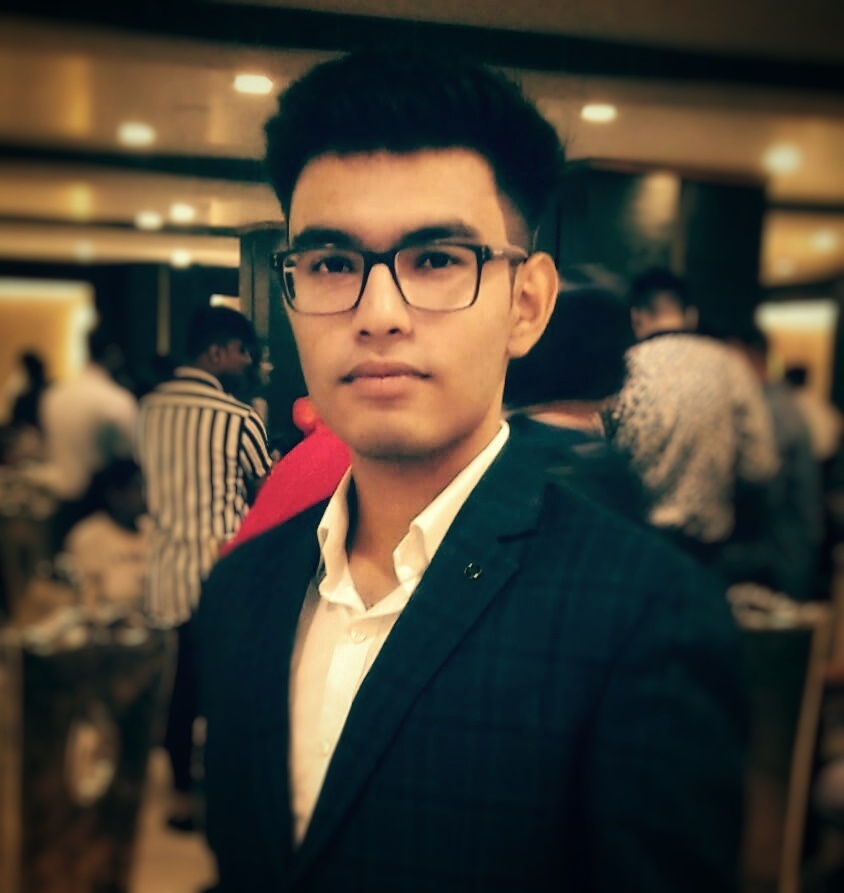
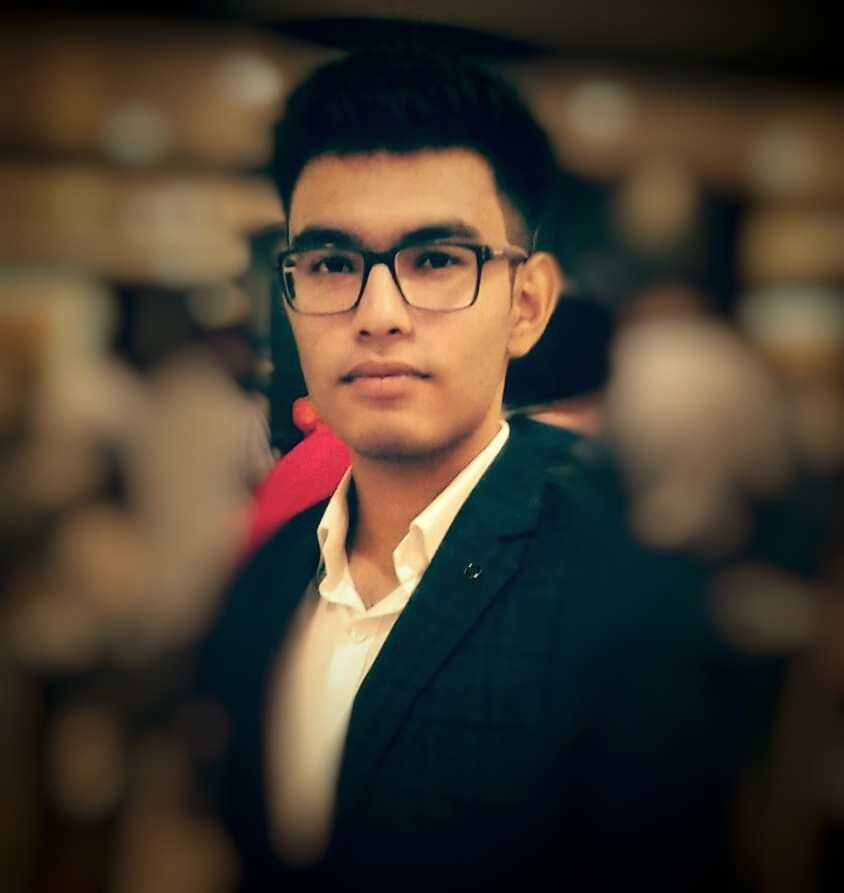
Added Name Text

diff --git a/lib/Utils/profile.dart b/lib/Utils/profile.dart
@@ -1,6 +1,6 @@
 import 'dart:ui';
-
 import 'package:flutter/material.dart';
+import 'package:google_fonts/google_fonts.dart';
 import 'package:newportfolio/Utils/profile_photo.dart';
 import 'package:newportfolio/Utils/social_handle_widgets.dart';
 
@@ -14,7 +14,7 @@ class Profile extends StatelessWidget {
     return ClipRRect(
       borderRadius: BorderRadius.circular(25),
       child: BackdropFilter(
-        filter: ImageFilter.blur(sigmaX: 1, sigmaY: 1),
+        filter: ImageFilter.blur(sigmaX: 1.5, sigmaY: 1.5),
         child: Container(
           height: height * 0.75,
           width: width * 0.6,
@@ -24,9 +24,27 @@ class Profile extends StatelessWidget {
             border: Border.all(width: 2, color: Colors.white30),
           ),
           child: Column(
-            children: const [
-              ProfilePhoto(),
-              SocialHandleWidgets(),
+            children: [
+              const ProfilePhoto(),
+              Text(
+                "Siddharth",
+                style: GoogleFonts.squarePeg(
+                  textStyle: const TextStyle(
+                      color: Colors.white,
+                      fontSize: 70,
+                      fontWeight: FontWeight.w600),
+                ),
+              ),
+              Text(
+                "Full Stack Developer",
+                style: GoogleFonts.dosis(
+                  textStyle: const TextStyle(
+                      color: Colors.white,
+                      fontSize: 25,
+                      fontWeight: FontWeight.w600),
+                ),
+              ),
+              const SocialHandleWidgets(),
             ],
           ),
         ),

diff --git a/lib/Utils/profile_photo.dart b/lib/Utils/profile_photo.dart
@@ -13,7 +13,7 @@ class _ProfilePhotoState extends State<ProfilePhoto> {
     double height = MediaQuery.of(context).size.height;
     //  double width = MediaQuery.of(context).size.width;
     return Container(
-      padding: const EdgeInsets.all(1), // Border width
+      padding: const EdgeInsets.all(3 / 2), // Border width
       decoration:
           const BoxDecoration(color: Colors.white, shape: BoxShape.circle),
       child: ClipOval(

diff --git a/macos/Flutter/GeneratedPluginRegistrant.swift b/macos/Flutter/GeneratedPluginRegistrant.swift
@@ -5,6 +5,8 @@
 import FlutterMacOS
 import Foundation
 
+import path_provider_macos
 
 func RegisterGeneratedPlugins(registry: FlutterPluginRegistry) {
+  PathProviderPlugin.register(with: registry.registrar(forPlugin: "PathProviderPlugin"))
 }
